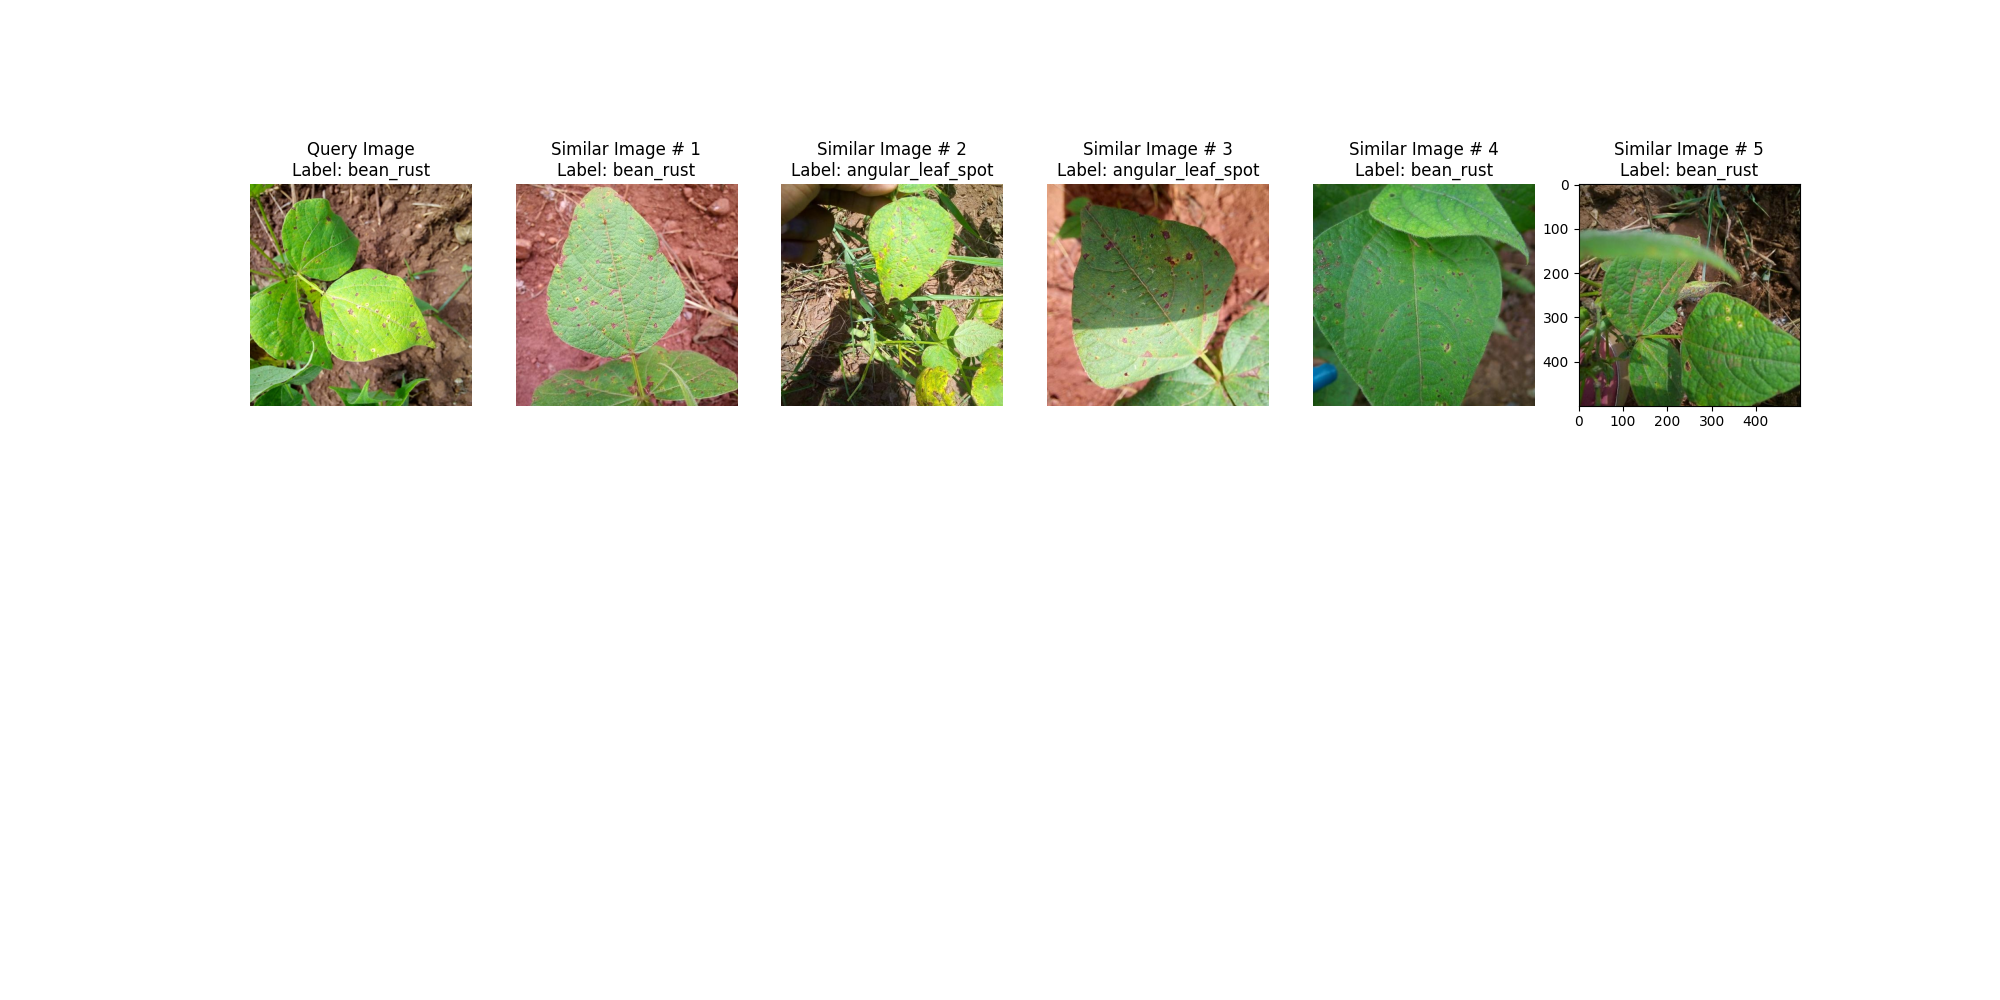
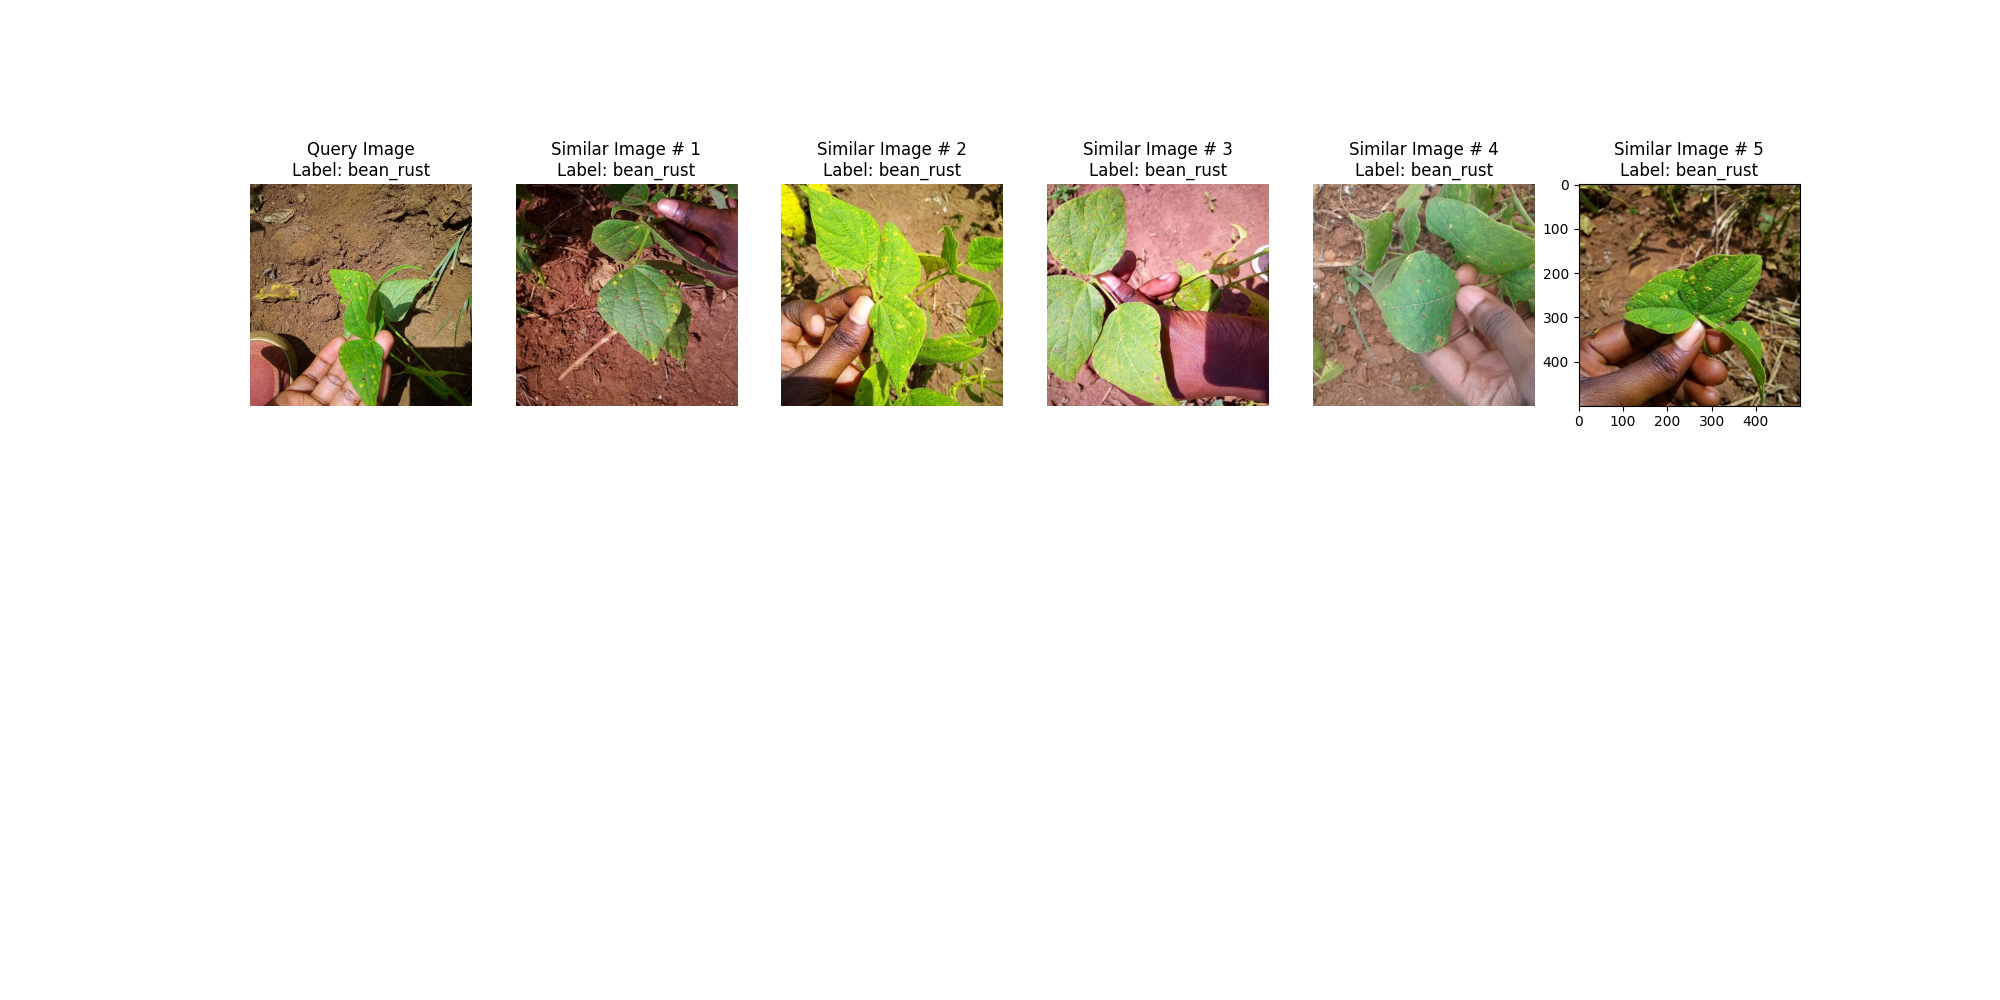
Seperate utils

Changed region(s): [[0.124, 0.155, 0.899, 0.403]]

diff --git a/src/test.py b/src/test.py
@@ -5,8 +5,10 @@ import torch
 from tqdm.auto import tqdm
 import numpy as np
 import matplotlib.pyplot as plt
+import random
+from utils.transformer_util import extract_embeddings, fetch_similar
 
-# Load the model and the feature extractor
+# Load image encoder
 model_ckpt = "nateraw/vit-base-beans"
 extractor = AutoFeatureExtractor.from_pretrained(model_ckpt)
 model = AutoModel.from_pretrained(model_ckpt)
@@ -23,10 +25,10 @@ for i, label in enumerate(labels):
     id2label[i] = label
 
 num_samples = 100
-seed = 42
+seed = random.randint(0, 1000)
 candidate_subset = dataset["train"].shuffle(seed=seed).select(range(num_samples))
 
-# Data transformation chain.
+# Extract embeddings for the candidate images
 transformation_chain = T.Compose(
     [
         # We first resize the input image to 256x256 and then we take center crop.
@@ -37,33 +39,10 @@ transformation_chain = T.Compose(
     ]
 )
 
-
-def extract_embeddings (model: torch.nn.Module):
-    """Utility to compute embeddings."""
-    device = model.device
-
-    def pp (batch):
-        images = batch ["image"]
-        # `transformation_chain` is a compostion of preprocessing
-        # transformations we apply to the input images to prepare them
-        # for the model. For more details, check out the accompanying Colab Notebook.
-        image_batch_transformed = torch.stack (
-            [transformation_chain (image) for image in images]
-        )
-        new_batch = {"pixel_values": image_batch_transformed.to (device)}
-        with torch.no_grad ():
-            embeddings = model (**new_batch).last_hidden_state [:, 0].cpu ()
-        return {"embeddings": embeddings}
-
-    return pp
-
-
-# Here, we map embedding extraction utility on our subset of candidate images.
 batch_size = 24
 device = "cuda" if torch.cuda.is_available() else "cpu"
-extract_fn = extract_embeddings(model.to(device))
+extract_fn = extract_embeddings(model.to(device), transformation_chain)
 candidate_subset_emb = candidate_subset.map(extract_fn, batched=True, batch_size=24)
-
 
 candidate_ids = []
 
@@ -78,48 +57,15 @@ for id in tqdm(range(len(candidate_subset_emb))):
 all_candidate_embeddings = np.array(candidate_subset_emb["embeddings"])
 all_candidate_embeddings = torch.from_numpy(all_candidate_embeddings)
 
-
-def compute_scores(emb_one, emb_two):
-    """Computes cosine similarity between two vectors."""
-    scores = torch.nn.functional.cosine_similarity(emb_one, emb_two)
-    return scores.numpy().tolist()
-
-
-def fetch_similar(image, top_k=5):
-    """Fetches the `top_k` similar images with `image` as the query."""
-    # Prepare the input query image for embedding computation.
-    image_transformed = transformation_chain(image).unsqueeze(0)
-    new_batch = {"pixel_values": image_transformed.to(device)}
-
-    # Comute the embedding.
-    with torch.no_grad():
-        query_embeddings = model(**new_batch).last_hidden_state[:, 0].cpu()
-
-    # Compute similarity scores with all the candidate images at one go.
-    # We also create a mapping between the candidate image identifiers
-    # and their similarity scores with the query image.
-    sim_scores = compute_scores(all_candidate_embeddings, query_embeddings)
-    similarity_mapping = dict(zip(candidate_ids, sim_scores))
- 
-    # Sort the mapping dictionary and return `top_k` candidates.
-    similarity_mapping_sorted = dict(
-        sorted(similarity_mapping.items(), key=lambda x: x[1], reverse=True)
-    )
-    id_entries = list(similarity_mapping_sorted.keys())[:top_k]
-
-    ids = list(map(lambda x: int(x.split("_")[0]), id_entries))
-    labels = list(map(lambda x: int(x.split("_")[-1]), id_entries))
-    return ids, labels
-
+# Test image
 test_idx = np.random.choice(len(dataset["test"]))
 test_sample = dataset["test"][test_idx]["image"]
 test_label = dataset["test"][test_idx]["labels"]
 
-sim_ids, sim_labels = fetch_similar(test_sample)
-print(f"Query label: {test_label}")
-print(f"Top 5 candidate labels: {sim_labels}")
+# Fetch similar images
+sim_ids, sim_labels = fetch_similar(test_sample, transformation_chain, device, model, all_candidate_embeddings, candidate_ids, top_k=5)
 
-
+# Plot the images
 def plot_images(images, labels):
     if not isinstance(labels, list):
         labels = labels.tolist()

diff --git a/src/utils/transformer_util.py b/src/utils/transformer_util.py
@@ -1,6 +1,51 @@
 import torch
 
+def extract_embeddings (model: torch.nn.Module, transformation_chain):
+    """Utility to compute embeddings."""
+    device = model.device
+
+    def pp (batch):
+        images = batch ["image"]
+        # `transformation_chain` is a compostion of preprocessing
+        # transformations we apply to the input images to prepare them
+        # for the model. For more details, check out the accompanying Colab Notebook.
+        image_batch_transformed = torch.stack (
+            [transformation_chain (image) for image in images]
+        )
+        new_batch = {"pixel_values": image_batch_transformed.to (device)}
+        with torch.no_grad ():
+            embeddings = model (**new_batch).last_hidden_state [:, 0].cpu ()
+        return {"embeddings": embeddings}
+
+    return pp
+
 def compute_scores(emb_one, emb_two):
     """Computes cosine similarity between two vectors."""
     scores = torch.nn.functional.cosine_similarity(emb_one, emb_two)
     return scores.numpy().tolist()
+
+def fetch_similar(image, transformation_chain, device, model, candidate_embeddings, candidate_ids, top_k=5):
+    """Fetches the `top_k` similar images with `image` as the query."""
+    # Prepare the input query image for embedding computation.
+    image_transformed = transformation_chain(image).unsqueeze(0)
+    new_batch = {"pixel_values": image_transformed.to(device)}
+
+    # Comute the embedding.
+    with torch.no_grad():
+        query_embeddings = model(**new_batch).last_hidden_state[:, 0].cpu()
+
+    # Compute similarity scores with all the candidate images at one go.
+    # We also create a mapping between the candidate image identifiers
+    # and their similarity scores with the query image.
+    sim_scores = compute_scores(candidate_embeddings, query_embeddings)
+    similarity_mapping = dict(zip(candidate_ids, sim_scores))
+ 
+    # Sort the mapping dictionary and return `top_k` candidates.
+    similarity_mapping_sorted = dict(
+        sorted(similarity_mapping.items(), key=lambda x: x[1], reverse=True)
+    )
+    id_entries = list(similarity_mapping_sorted.keys())[:top_k]
+
+    ids = list(map(lambda x: int(x.split("_")[0]), id_entries))
+    labels = list(map(lambda x: int(x.split("_")[-1]), id_entries))
+    return ids, labels
